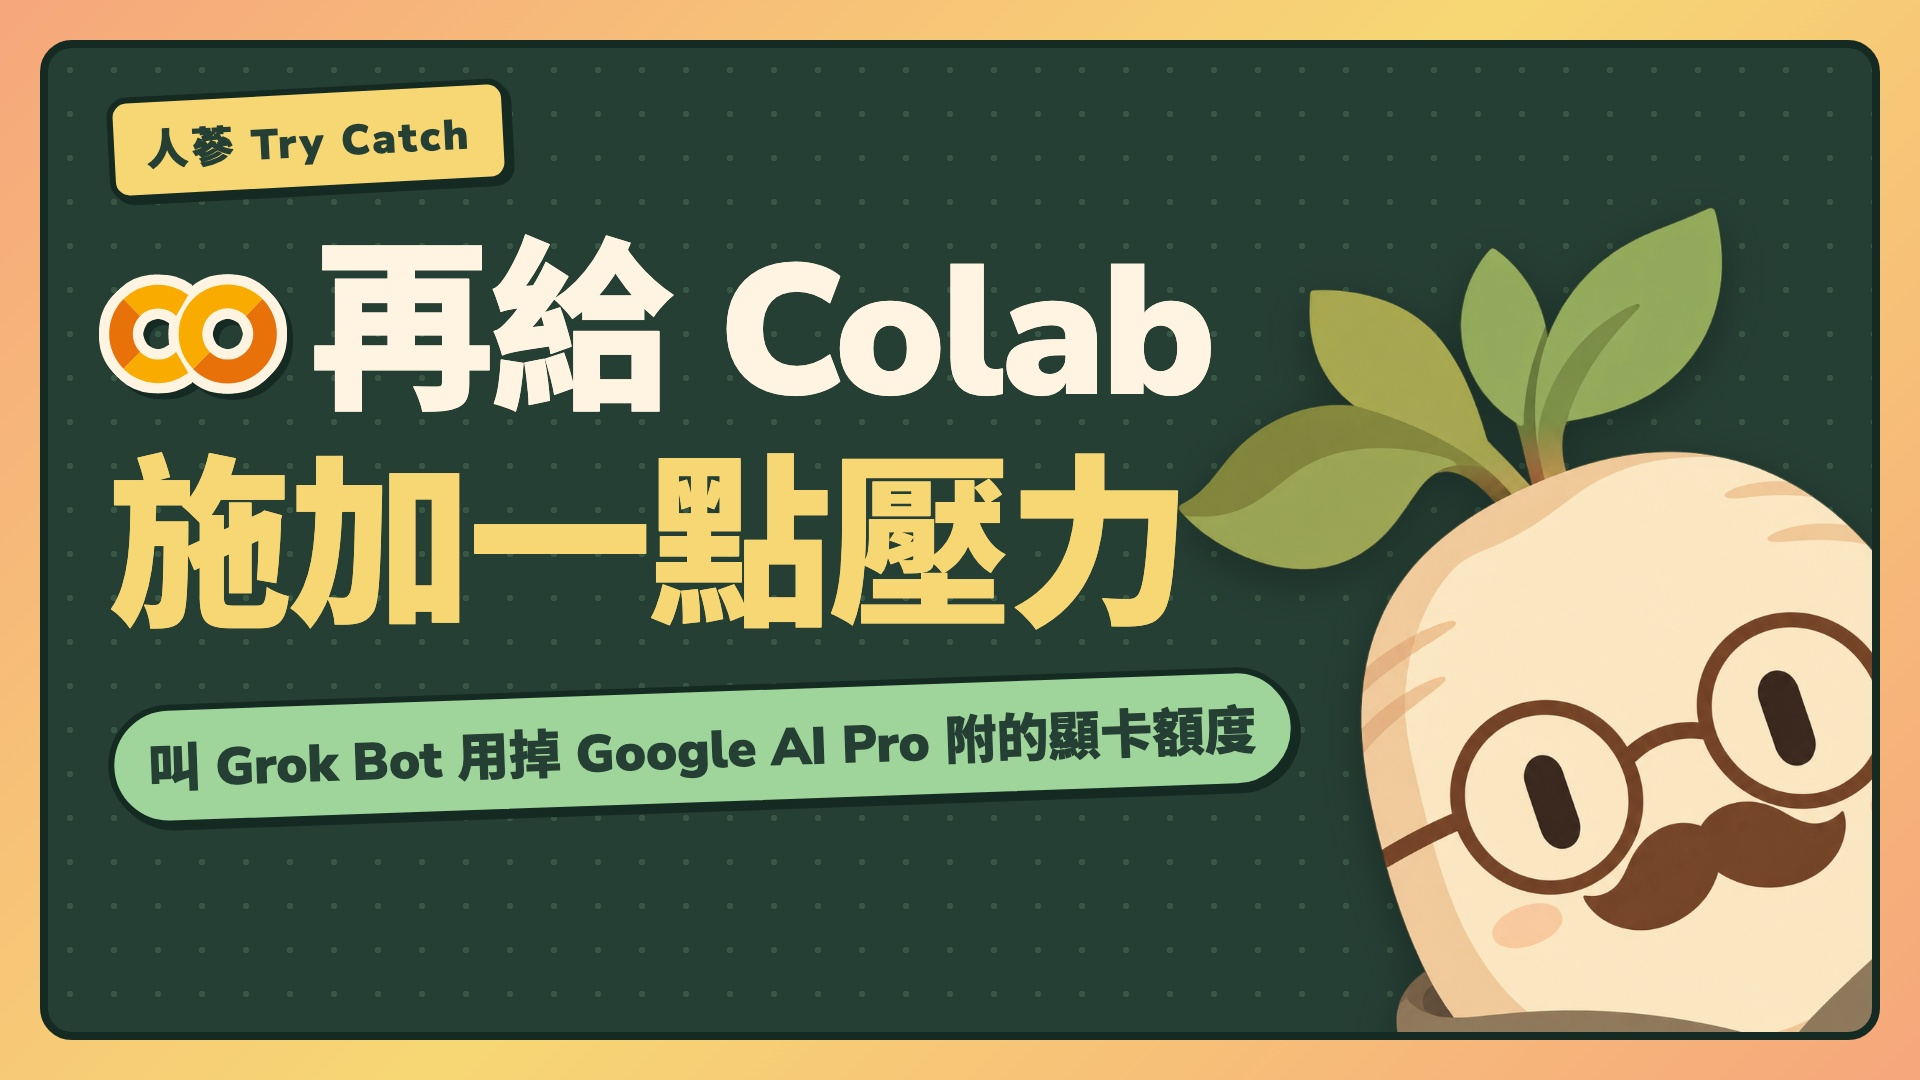
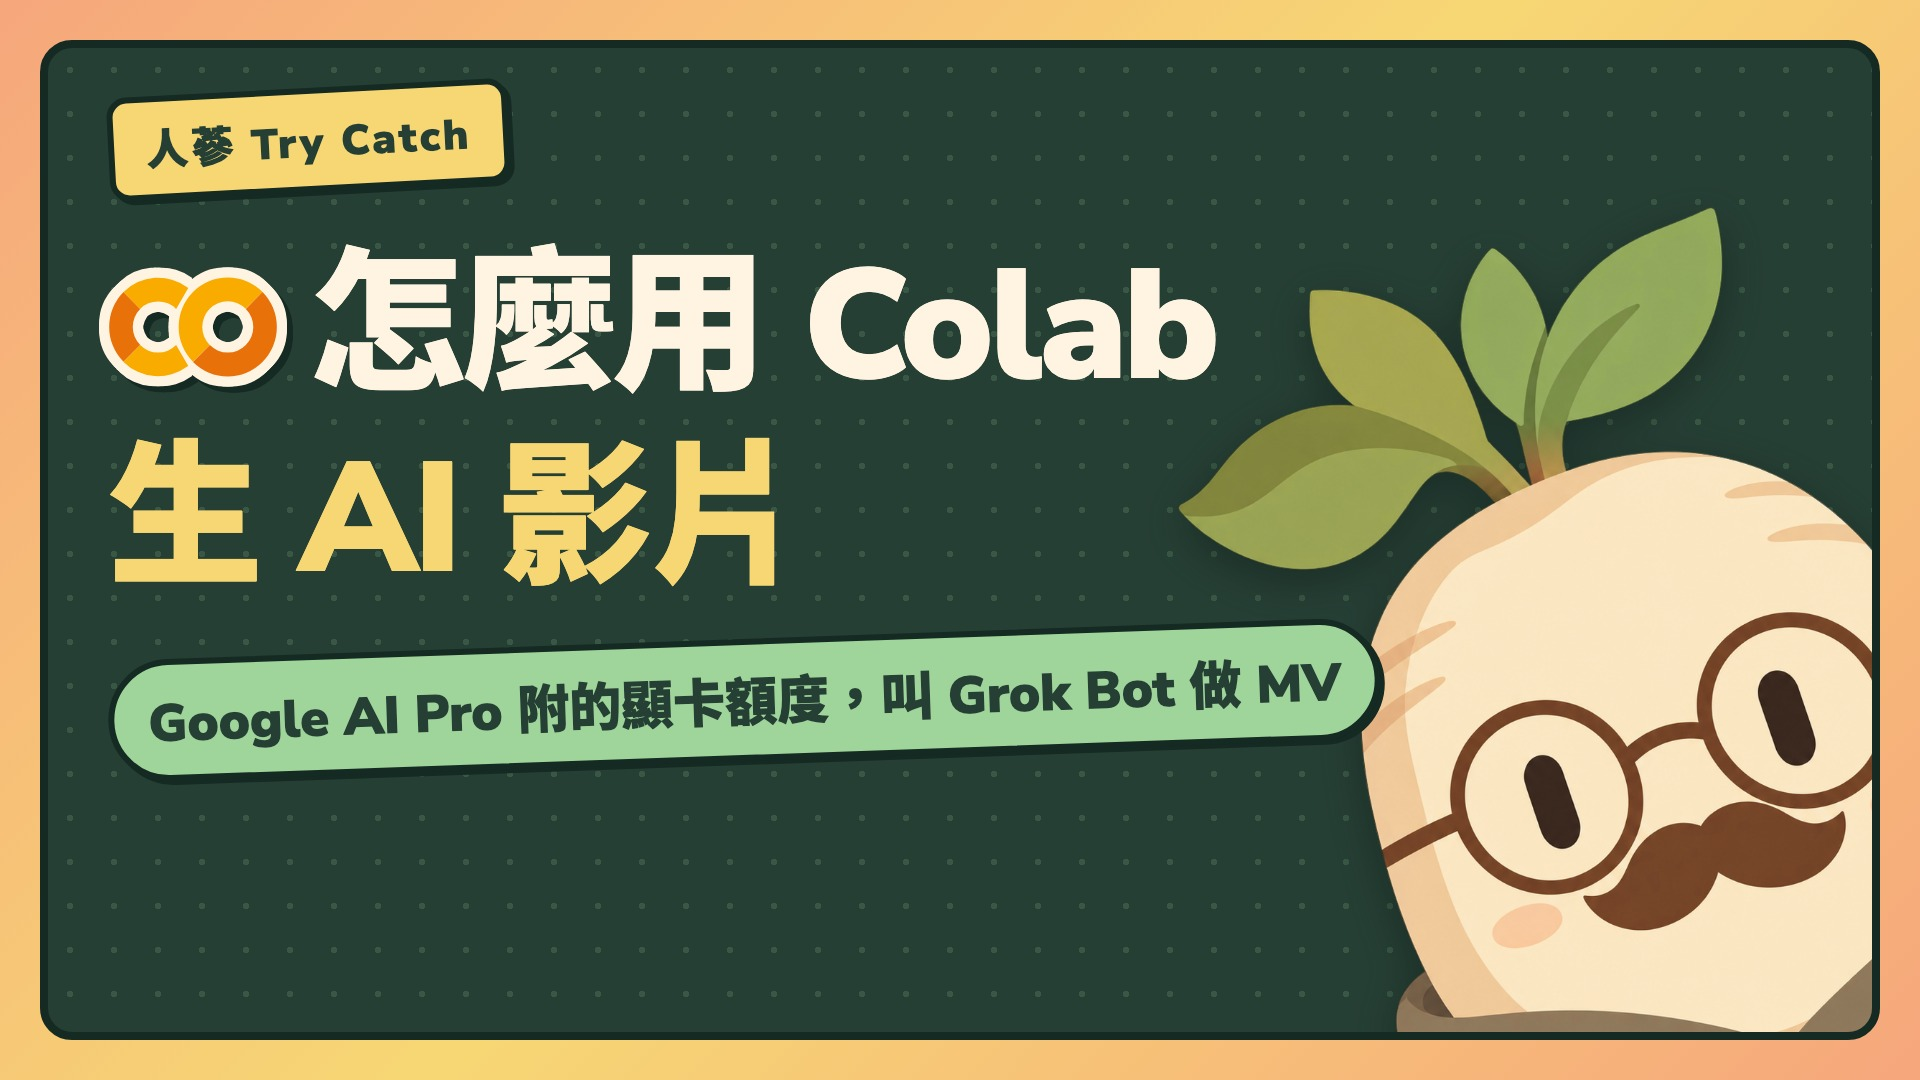
feat(ep099): 標註大肥魚角色出處與 AI 生成，封面換成直球版

Changed region(s): [[0.0312, 0.2139, 0.7188, 0.7639]]

diff --git a/content/posts/zh-TW/ep099.md b/content/posts/zh-TW/ep099.md
@@ -14,6 +14,10 @@ tags: [Google AI Pro, Google Colab, Grok Bot, ACE-Step, MiniMax-H3, AI 影片生
 
 ![大肥魚 rap MV 的四個畫面：機房裡跳舞、推機櫃](/blog/ep099/demo-strip.jpg)
 
+> 片中角色「大肥魚」源自[上善无形](https://space.bilibili.com/4456176)的原創角色「溟月」，DeepSeek 女僕版由 [ZipZipPipe](https://space.bilibili.com/4168597) 二創，依 CC BY-NC-SA 4.0 使用。這是網路社群的二創形象，DeepSeek 官方沒有推出這個角色，本站與 DeepSeek 無關。
+>
+> 這支 MV 是 AI 生成內容：歌曲由 ACE-Step 生成，畫面由 MiniMax-H3 生成。
+
 這 20 秒，歌是 AI 寫的、AI 唱的，大肥魚跳舞的畫面也是 AI 生的。從頭到尾是我 Grok Bot 團隊裡的芸芸做的，我只出了一個題目。從開機到關機，一共用掉 8.57 個運算單元。
 
 Google AI Pro 附 Colab 這件事，2026 年 9 月 22 日才公布。我猜很多訂閱戶到現在還不知道自己有。
